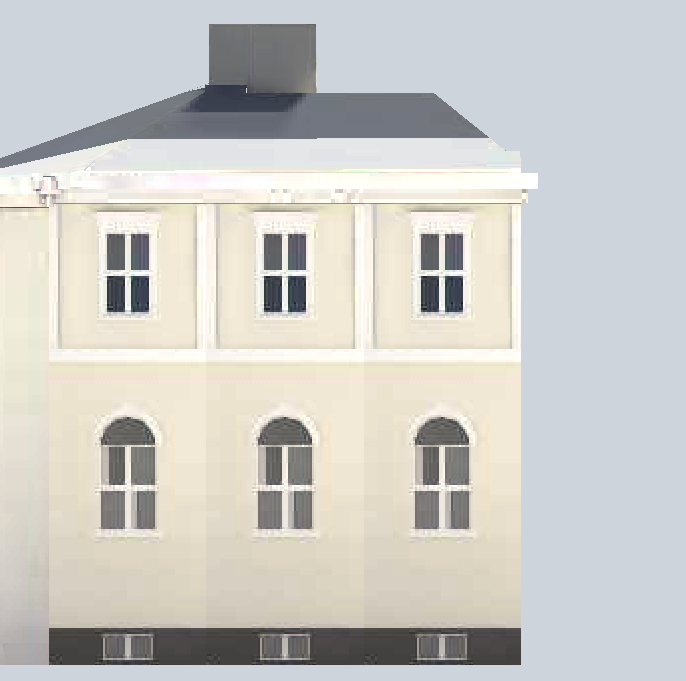
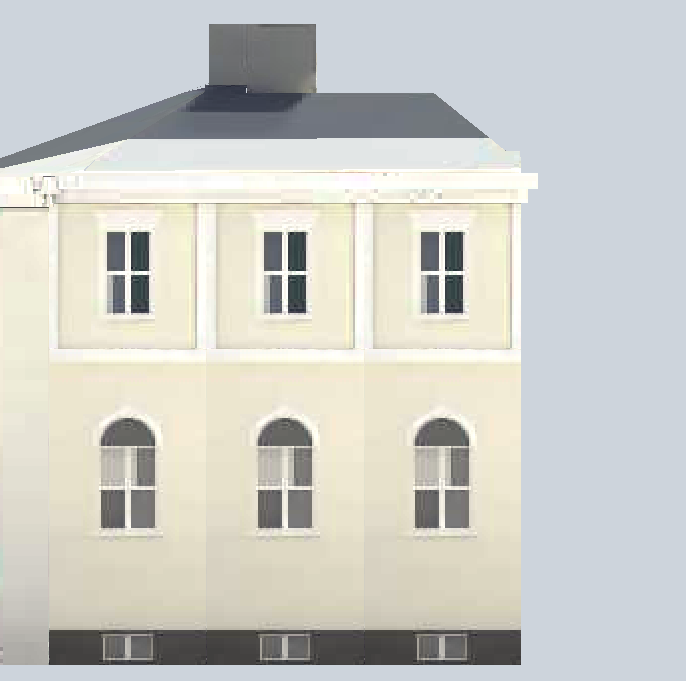
antinaktu

diff --git a/blender/kivi.py b/blender/kivi.py
@@ -86,6 +86,23 @@ def classic_spec(i, wall=None, trim=None, h=None, **kw):
     sp.update(kw)
     return sp
 
+def cut_walls(i, p0, d):
+    """Split the LoD2 walls of building i with the vertical plane through p0 (x, y) whose normal is d (dx, dy), so that one shell can
+    carry two houses (colour, storeys) along one street front: build_lod2 then picks the spec per piece through spec['alt']."""
+    out = []
+    for k, r, holes in RAW.get(i, []):
+        sd = [(q[0] - p0[0]) * d[0] + (q[1] - p0[1]) * d[1] for q in r]
+        if k != 'W' or min(sd) >= -0.05 or max(sd) <= 0.05: out.append((k, r, holes)); continue
+        for sg in (1, -1):                                         # Sutherland-Hodgman against each half-space
+            poly = []
+            for a in range(len(r)):
+                P, Q = r[a], r[(a + 1) % len(r)]; sp, sq = sd[a] * sg, sd[(a + 1) % len(r)] * sg
+                if sp >= 0: poly.append(P)
+                if (sp >= 0) != (sq >= 0):
+                    t = sp / (sp - sq); poly.append(tuple(P[c] + (Q[c] - P[c]) * t for c in range(3)))
+            if len(poly) >= 3: out.append((k, poly, holes))
+    RAW[i] = out
+
 def corner_tower(cx, cy, r, z0, z1, wall, trim, dome, n=16):
     """round corner tower above the eaves with an ogee dome and a spire (the LoD2 scan cuts such towers off at the roof)"""
     def ex(Z, *a):
@@ -132,14 +149,19 @@ _ly['alt'] = lambda x, y: _lyy if x * 0.9744 - y * 0.225 < -486.6 else None
 SPECK[1351] = classic_spec(1351, **_ly); SPECK[1353] = classic_spec(1353, **dict(_ly, lay=dict(gh=4.6, fh=4.2)))
 SPECK[1311] = classic_spec(1311, wall='#e3d8b4', trim='#f4f1ea', rust=False, garch=False, hood=None, pil=False)   # Valtakatu 17-19 side: long 2-storey pale yellow house, plain windows (Street View 13.11.2026)
 SPECK[1574] = classic_spec(1574, wall='#e3d7b9', trim='#f4f1ea', rust=False, garch=False, hood=None, pil=False)   # Valtakatu 9: small 1-storey stucco house with a gable, plain windows (Street View 13.11.2026)
-# Eteläranta / Antinkatu corner (Street View 14.11.2026, owner): four storeys. The corner bay with the 45-degree chamfer (door and a
-# balcony above it) and the Antinkatu side are salmon red with white dressings over a grey rusticated ground floor; west of the corner
-# bay the Eteläranta front is a pale grey-green house with a balcony. One LoD2 shell holds both, so the walls are split by position.
-_e1560 = classic_spec(1560, wall='#c9cfc6', trim='#f2f1ec', rust=True, garch=False, hood='cornice', pil=True, lay=dict(nf=4),
-                      ground=dict(rustc=M('#a9aca7')))
-SPECK[1560] = classic_spec(1560, wall='#d98a6c', trim='#f4f1ea', rust=True, garch=True, hood='cornice', pil=True, lay=dict(nf=4),
-                           ground=dict(rustc=M('#9fa29e')))
-SPECK[1560]['alt'] = lambda x, y: _e1560 if x < 53.0 and y > 430.0 else None
+# Eteläranta / Antinkatu corner (Street View 14.11.2026, owner): three tall storeys with small windows in the top storey. The salmon
+# corner house (white dressings, grey rusticated ground floor) has the 45-degree chamfer with the door and three window bays on the
+# Eteläranta side; west of it (the shell's roof steps at x = 52) the Eteläranta front is a pale grey-green house. One LoD2 shell holds
+# both: its Eteläranta wall is cut at x = 52 and the pieces get their spec by position.
+cut_walls(1560, (52.0, 439.2), (0.9732, -0.2298))
+_k1560 = dict(lay=dict(nf=3, gh=5.6, frieze=1.4), ground=dict(rustc=M('#9fa29e')), top=dict(wh=1.35, ww=1.1, sill=0.9, hood=None))
+_e1560 = classic_spec(1560, wall='#c9cfc6', trim='#f2f1ec', rust=True, garch=False, hood='cornice', pil=True, **_k1560)
+SPECK[1560] = classic_spec(1560, wall='#d98a6c', trim='#f4f1ea', rust=True, garch=True, hood='cornice', pil=True, **_k1560)
+_c1560 = classic_spec(1560, wall='#d98a6c', trim='#f4f1ea', rust=True, garch=True, hood='cornice', pil=True, bw=2.6,
+                      **dict(_k1560, lay=dict(_k1560['lay'], cols=lambda c, nb: 'D')))      # the chamfer: corner door, windows above
+SPECK[1560]['alt'] = lambda x, y: (_c1560 if 62.3 < x < 64.8 and 433.5 < y < 437.2 else _e1560 if x < 52.0 and y > 430.0 else None)
+SPECK[1286] = classic_spec(1286, trim='#f4f1ea', rust=False, garch=False, hood='pediment', pil=False, lay=dict(nf=3, gh=5.2, frieze=1.4),
+                           top=dict(wh=1.35, ww=1.1, sill=0.9, hood=None))   # Hallituskatu: salmon, pediments on the first floor, small top-floor windows (owner 14.11.2026)
 SPECK[1604] = classic_spec(1604, trim='#b0603f', rust=False, garch=False, hood='cornice', pil=False, top=dict(hood='cornice'))  # yellow Jugend house on Antinkatu: brick-red arched lintels with keystones over the windows on every floor (Street View 14.11.2026); gables from the LoD2 shell
 SPECK[1284] = classic_spec(1284, wall='#e4dcc6', trim='#f3eee2', rust=True, garch=True, hood='pediment', pil=False,
                            extra=[corner_tower(-172.4, 404.9, 2.1, 9.2, 13.4, M('#e4dcc6'), M('#f3eee2'), M('#3a3f45', 0.5, 0.3))])   # Heinen talo / seurakuntatoimisto: banded rustication on the ground floor, arched ground-floor windows, pedimented upper windows (Street View 14.11.2026)
@@ -153,7 +175,14 @@ SPECK[1572] = classic_spec(1572, trim='#f4f1e8', rust=False, garch=False, hood='
 SPECK[1561] = classic_spec(1561, trim='#f6f4ee', rust=False, garch=False, hood=None, pil=False)   # Antinkatu: small white gabled 1-storey house, plain windows (Street View 14.11.2026)
 SPECK[1562] = classic_spec(1562, trim='#f6f4ee', rust=False, garch=False, hood='cornice', pil=False)   # Antinkatu: white 2-storey (Street View 14.11.2026)
 SPECK[1573] = classic_spec(1573, trim='#f4f1e8', rust=False, garch=False, hood=None, pil=False)   # Antinkatu: low 1-storey yellow house, no arched windows; the arched gateway with columns is not modelled (Street View 14.11.2026, owner)
-SPECK[1566] = classic_spec(1566, wall='#cdd8de', trim='#f4f1e8', rust=False, garch=False, hood='cornice', pil=False)   # Eteläranta 4 / Antinkatu 2 (1854): light blue (owner 14.11.2026), 2 storeys, rectangular windows with cornices
+SPECK[1566] = classic_spec(1566, wall='#e3dfcf', trim='#efece2', rust=True, garch=False, hood='cornice', pil=True, bw=3.6,
+                           ground=dict(hood='cornice', basement=False, plinth_h=1.1, plinth=M('#8d8c87', 0.85), rustc=M('#c9c4b3')),
+                           top=dict(ww=0.9, wh=0.45, sill=0.35, hood=None), lay=dict(nf=2, frieze=1.1), roofmat=M('#4b5552', 0.5, 0.3))
+# Eteläranta 4 / Antinkatu 2 (owner photo 14.11.2026): pale cream render, two storeys, block-rusticated ground floor, straight cornices
+# over every window, a strong string course, rusticated corners, small attic windows in the frieze, grey stone plinth, dark sheet roof;
+# a gateway at the Antinkatu end (not modelled)
+SPECK[1569] = dict(P=dict(wall=M('#dedcd5'), spandrel=M('#dedcd5'), frame=M('#5b3f2c', 0.6), sign=SIGNS), cornice=(0.7, 0.2, M('#2f3437', 0.5)),
+                   layout=lay(7.5, 'ribbon', gh=0, bw=1.3, fh=3.4))   # Antinkatu, mid-20th-century infill (owner photo 14.11.2026): light grey render, two long window bands with brown wooden frames, dark fascia
 SPECK[1454] = classic_spec(1454, trim='#f7f6f1', rust=False, garch=False, hood='pediment', pil=False, ground=dict(hood='pediment'))   # Teatterikatu: white 1-storey, triangular pediments over the windows (Street View 14.11.2026)
 SPECK[1292] = classic_spec(1292, trim='#f5f2ea', rust=False, garch=False, hood='cornice', pil=True)   # Selim Palmgreninkatu / Valtakatu corner: yellow 1-storey, white window surrounds with cornices, white corner pilasters (Street View 14.11.2026)
 
